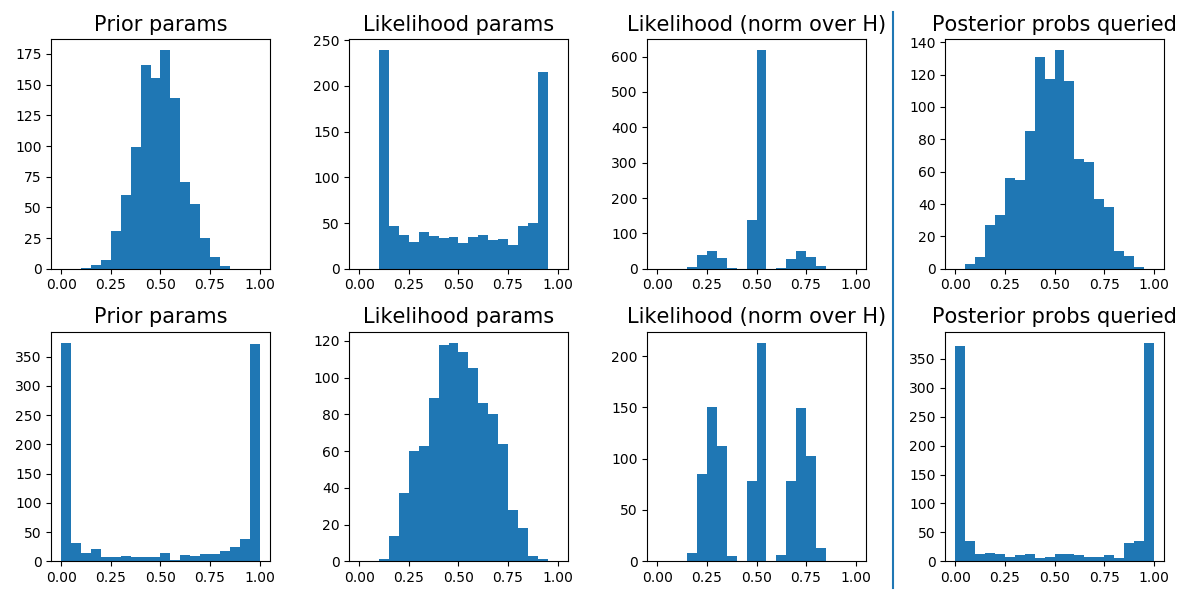
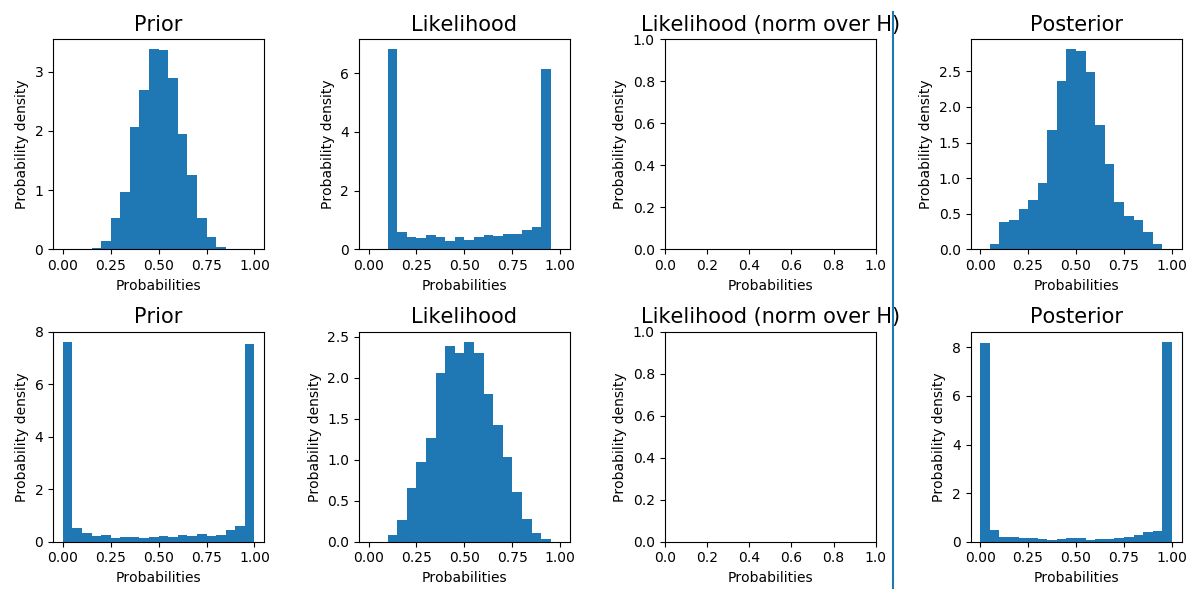
Including KDE

diff --git a/link2CP/demo.py b/link2CP/demo.py
@@ -2,7 +2,10 @@ import numpy as np
 import matplotlib
 import matplotlib.pyplot as plt
 import json
-N = 100
+
+from scipy.stats import gaussian_kde
+
+N = 2000
 Nbin = 20
 # prior prob of choosing urn 1
 priors = {}
@@ -12,7 +15,7 @@ lik_params = {}
 likls = {}
 # posterior probability of data coming from urn 1
 posts = {}
-conds = ['inf', 'uninf']
+conds = ['inf_lik', 'uninf_lik']
 
 
 def ret_likl(lik_param, data):
@@ -24,10 +27,27 @@ def ret_likl(lik_param, data):
 def log_odds_func(x):
     return(np.log(x / (1.0 - x)))
     
-def plotall(priors, lik_params, likls, posts, which, log_odds = False):
+def plotall(priors, lik_params, likls, posts, which, kde = False, log_odds = False):
+    
+    plt.tick_params(
+        axis='y',          # changes apply to the x-axis
+        which='both',      # both major and minor ticks are affected
+        bottom='off',      # ticks along the bottom edge are off
+        top='off',         # ticks along the top edge are off
+        labelbottom='off') # labels along the bottom edge are off    
+
+
     fig = plt.figure(figsize = (12,6))
     figtr = fig.transFigure.inverted()
     
+    sig_pr = {'inf_lik' : 0.7,
+              'uninf_lik' : 0.25}
+    sig_lik = {'inf_lik' : 0.7,
+              'uninf_lik' : 0.7}
+    sig_post = {'inf_lik' : 0.25,
+              'uninf_lik' : 0.25}
+    
+    Ndisc = 1000
     if log_odds:
         f = log_odds_func
         g_range = (-4, 4)
@@ -37,43 +57,72 @@ def plotall(priors, lik_params, likls, posts, which, log_odds = False):
         g_range = (0,1)
         Xlab = "Probabilities"
     
+    delx = (g_range[1] - g_range[0])/float(Ndisc)
     count = 1
+    
     for cond in conds:
         ax = plt.subplot(2,4,count)
-        ax.hist(f(priors[cond]), bins = Nbin, normed = True, range = g_range)
+        if kde:
+            density = gaussian_kde(f(priors[cond]))
+            density.covariance_factor = lambda : sig_pr[cond]
+            density._compute_covariance()        
+            x = np.linspace(g_range[0], g_range[1], Ndisc)
+            ax.plot(x, density(x) / sum(delx*density(x)))
+            ax.set_ylim([0,1.2])
+        else:
+            ax.hist(f(priors[cond]), bins = Nbin, normed = True, range = g_range)
         ax.set_xlabel(Xlab)
-        ax.set_ylabel("Probability")
+        ax.set_ylabel("Probability density")
         ax.set_title("Prior".format(cond), fontsize = 15)
+        #ax.set_yticks([])
         count += 1
         
         ax0tr = ax.transData
-        xy0 = figtr.transform(ax0tr.transform((0.3,10)))
+        xy0 = figtr.transform(ax0tr.transform((0.25,10)))
 
         ax = plt.subplot(2,4,count)
-        ax.hist(f(lik_params[cond]), bins = Nbin, normed = True, range = g_range)
+        if kde:
+            density = gaussian_kde(f(lik_params[cond]))
+            density.covariance_factor = lambda : sig_lik[cond]
+            density._compute_covariance()        
+            x = np.linspace(g_range[0], g_range[1], Ndisc)
+            ax.plot(x, density(x)/ sum(delx*density(x)))
+            ax.set_ylim([0,1.2])
+        else:
+            ax.hist(f(lik_params[cond]), bins = Nbin, normed = True, range = g_range)
         ax.set_xlabel(Xlab)
-        ax.set_ylabel("Probability")
+        ax.set_ylabel("Probability density")
         ax.set_title("Likelihood".format(cond), fontsize = 15)
+        #ax.set_yticks([])
         count += 1
         
                 
         if not log_odds:
             ax = plt.subplot(2,4,count)
-            ax.hist(f(likls[cond]), bins = Nbin, normed = True, range = g_range)
+            #ax.hist(f(likls[cond]), bins = Nbin, normed = True, range = g_range)
             ax.set_xlabel(Xlab)
-            ax.set_ylabel("Probability")
+            ax.set_ylabel("Probability density")
             ax.set_title("Likelihood (norm over H)".format(cond), fontsize = 15)
             count += 1
         
 
         ax = plt.subplot(2,4,count)
-        ax.hist(f(posts[cond]), bins = Nbin, normed = True, range = g_range)
+        if kde:
+            density = gaussian_kde(f(posts[cond]))
+            density.covariance_factor = lambda : sig_post[cond]
+            density._compute_covariance()        
+            x = np.linspace(g_range[0], g_range[1], Ndisc)
+            ax.plot(x, density(x)/ sum(delx*density(x)))
+            ax.set_ylim([0,1.2])
+        else:
+            ax.hist(f(posts[cond]), bins = Nbin, normed = True, range = g_range)
         ax.set_xlabel(Xlab)
-        ax.set_ylabel("Probability")
-        ax.set_title("Posterior probs".format(cond), fontsize = 15)
+        ax.set_ylabel("Probability density")
+        ax.set_title("Posterior".format(cond), fontsize = 15)
+        #ax.set_yticks([])
         count += 1
         ax0tr = ax.transData
-        xy1 = figtr.transform(ax0tr.transform((0.3,10)))
+        xy1 = figtr.transform(ax0tr.transform((0.25,10)))
         
         if log_odds: count +=1
         
@@ -97,20 +146,20 @@ which = str(3.1)
 Ndata = 1
 fac = 10.0
 mid = [0.5, 0.5, 0.4, 0.6]
-end = [0.1, 0.1, 0.2, 0.3, 0.9, 0.9, 0.8, 0.7]
+end = [0.1,0.2,0.2,0.3,0.7,0.8,0.8,0.9]
 
-priors['inf'] = np.random.choice(mid, N)
-priors['uninf'] = np.random.choice(end, N)
+priors['inf_lik'] = np.random.choice(mid, N)
+priors['uninf_lik'] = np.random.choice(end, N)
 
-lik_params['inf'] = np.random.choice(end, N)
-lik_params['uninf'] = np.random.choice(mid, N)
+lik_params['inf_lik'] = np.random.choice(end, N)
+lik_params['uninf_lik'] = np.random.choice(mid, N)
 
 
-#priors['inf'] = np.clip(np.random.beta(fac, fac, N), 0.001, 0.999)
-#priors['uninf'] = np.clip(np.random.beta(1.0/fac, 1.0/fac, N), 0.001, 0.999)
+#priors['inf_lik'] = np.clip(np.random.beta(fac, fac, N), 0.001, 0.999)
+#priors['uninf_lik'] = np.clip(np.random.beta(1.0/fac, 1.0/fac, N), 0.001, 0.999)
 
-#lik_params['inf'] = np.clip(np.random.beta(1.0/fac, 1.0/fac, N), 0.001, 0.999)
-#lik_params['uninf'] = np.clip(np.random.beta(fac, fac, N), 0.001, 0.999)
+#lik_params['inf_lik'] = np.clip(np.random.beta(1.0/fac, 1.0/fac, N), 0.001, 0.999)
+#lik_params['uninf_lik'] = np.clip(np.random.beta(fac, fac, N), 0.001, 0.999)
 
 data = []
 
@@ -136,130 +185,131 @@ for cond in conds:
     
     
     
-plotall(priors, lik_params, likls, posts, which, log_odds = True)
+plotall(priors, lik_params, likls, posts, which)#, log_odds = True)
 #Store log odds
-for name, t in zip(('priors', 'likls', 'posts'), (priors, lik_params, posts)):
-    for key in t:
-        t[key] = list(log_odds_func(t[key]))
-        
-    with open(name + '.txt', 'w') as fn:
-        json.dump(t,fn)
-        
-        
-##********************************************
-##3.2 : Vary only diagnosticity of likelihood + 
-##      certainty of hypotheses queried
-##********************************************
-
-#which = str(3.2)
-#Ndata = 8
-#Ndiff = 4
-
-##fac = 2
-
-#priors['inf'] = np.clip(np.random.beta(5.0, 5.0, N), 0.001, 0.999)
-##priors['uninf'] = np.clip(np.random.beta(5.0, 5.0, N), 0.001, 0.999)
-#priors['uninf'] = np.clip(np.random.beta(0.5, 0.5, N), 0.001, 0.999)
-
-#lik_params['inf'] = np.clip(np.random.beta(5.0, 5.0, N), 0.001, 0.999)
-#lik_params['uninf'] = np.clip(np.random.beta(5.0, 5.0, N), 0.001, 0.999)
-
-
-#data = []
-
-#for cond in conds:
-    #data = []
-    #for p, l in zip(priors[cond], lik_params[cond]):
-        #urn = np.random.binomial(1,p)
-        #if urn:
-            #lik = l
-        #else:
-            #lik = 1 - l
+if N == 100:
+    for name, t in zip(('priors', 'likls', 'posts'), (priors, lik_params, posts)):
+        for key in t:
+            t[key] = list(log_odds_func(t[key]))
             
-        #if cond == 'uninf':
-            #N1s = int(Ndata/2)
-        #elif cond == 'inf':
-            #N1s = int(Ndata/2) + (
-                #(lik > 0.5)*Ndiff - (lik < 0.5)*Ndiff)/2
-
-        #N0s = Ndata - N1s
-        
-
-        #manipulated_data = np.array([0]*N0s + [1]*N1s)
-        #np.random.shuffle(manipulated_data)
-        #data.append(manipulated_data)
-        
-        
-    #data = np.array(data)
+        with open(name + '.txt', 'w') as fn:
+            json.dump(t,fn)
             
-    #likls[cond] = np.array([ret_likl(lp, d) for lp, d in zip(lik_params[cond], data)])
-    
-    #likls_other = np.array([ret_likl(lp, d) for lp, d in zip(1 - lik_params[cond], data)])
-    #posts[cond] = likls[cond] * priors[cond] / (likls[cond] * priors[cond] + likls_other * (1 - priors[cond]))
-    
-    #likls[cond] = likls[cond] / (likls[cond] + likls_other)
-    
-    
-#plotall(priors, lik_params, likls, posts, which)
+        
+#********************************************
+#3.2 : Vary only diagnosticity of likelihood + 
+#      certainty of hypotheses queried
+#********************************************
 
-##********************************************
-##3.3 : Vary only parameters OR only parameters 
-##      + certainty of hypotheses queried
-##********************************************
+which = str(3.2)
+Ndata = 8
+Ndiff = 4
 
+#fac = 2
 
-#which = str(3.3)
-#Ndata = 10
-#odds = 3
+priors['inf_lik'] = np.clip(np.random.beta(5.0, 5.0, N), 0.001, 0.999)
+#priors['uninf_lik'] = np.clip(np.random.beta(5.0, 5.0, N), 0.001, 0.999)
+priors['uninf_lik'] = np.clip(np.random.beta(0.25, 0.25, N), 0.001, 0.999)
 
-#fac = 10
-
-#priors['inf'] = np.clip(np.random.beta(fac, fac, N), 0.001, 0.999)
-#priors['uninf'] = np.clip(np.random.beta(1.0/fac, 1.0/fac, N), 0.001, 0.999)
-##priors['uninf'] = np.clip(np.random.beta(fac, fac, N), 0.001, 0.999)
-
-#lik_params['inf'] = np.clip(np.random.beta(0.5, 0.5, N), 0.1, 0.9)
-#lik_params['uninf'] = np.clip(np.random.beta(5.0, 5.0, N), 0.1, 0.9)
+lik_params['inf_lik'] = np.clip(np.random.beta(5.0, 5.0, N), 0.001, 0.999)
+lik_params['uninf_lik'] = np.clip(np.random.beta(5.0, 5.0, N), 0.001, 0.999)
 
 
-#data = []
+data = []
 
-#for cond in conds:
-    #data = []
-    #for p, l in zip(priors[cond], lik_params[cond]):
-        #urn = np.random.binomial(1,p)
-        #if urn:
-            #lik = l
-        #else:
-            #lik = 1 - l
+for cond in conds:
+    data = []
+    for p, l in zip(priors[cond], lik_params[cond]):
+        urn = np.random.binomial(1,p)
+        if urn:
+            lik = l
+        else:
+            lik = 1 - l
             
-        #r = lik/(1.0*(1-lik))
-        #Ndiff = int(np.round(np.log(odds)/np.log(r)))
-        #N1s = int(Ndata/2) + (
-            #(lik > 0.5)*Ndiff - (lik < 0.5)*Ndiff)/2
+        if cond == 'uninf_lik':
+            N1s = int(Ndata/2)
+        elif cond == 'inf_lik':
+            N1s = int(Ndata/2) + (
+                (lik > 0.25)*Ndiff - (lik < 0.25)*Ndiff)/2
 
-        #N0s = Ndata - N1s
-        
-        ##if not Ndiff:
-            ##print(lik, np.log(r))
+        N0s = Ndata - N1s
         
 
-        #manipulated_data = np.array([0]*N0s + [1]*N1s)
-        #np.random.shuffle(manipulated_data)
-        #data.append(manipulated_data)
+        manipulated_data = np.array([0]*N0s + [1]*N1s)
+        np.random.shuffle(manipulated_data)
+        data.append(manipulated_data)
         
         
-    #data = np.array(data)
+    data = np.array(data)
             
-    #likls[cond] = np.array([ret_likl(lp, d) for lp, d in zip(lik_params[cond], data)])
+    likls[cond] = np.array([ret_likl(lp, d) for lp, d in zip(lik_params[cond], data)])
     
-    #likls_other = np.array([ret_likl(lp, d) for lp, d in zip(1 - lik_params[cond], data)])
-    #posts[cond] = likls[cond] * priors[cond] / (likls[cond] * priors[cond] + likls_other * (1 - priors[cond]))
+    likls_other = np.array([ret_likl(lp, d) for lp, d in zip(1 - lik_params[cond], data)])
+    posts[cond] = likls[cond] * priors[cond] / (likls[cond] * priors[cond] + likls_other * (1 - priors[cond]))
     
-    #likls[cond] = likls[cond] / (likls[cond] + likls_other)
+    likls[cond] = likls[cond] / (likls[cond] + likls_other)
     
     
-#plotall(priors, lik_params, likls, posts, which)
+plotall(priors, lik_params, likls, posts, which)
+
+#********************************************
+#3.3 : Vary only parameters OR only parameters 
+#      + certainty of hypotheses queried
+#********************************************
+
+
+which = str(3.3)
+Ndata = 10
+odds = 3
+
+fac = 10
+
+priors['inf_lik'] = np.clip(np.random.beta(fac, fac, N), 0.001, 0.999)
+priors['uninf_lik'] = np.clip(np.random.beta(1.0/fac, 1.0/fac, N), 0.001, 0.999)
+#priors['uninf_lik'] = np.clip(np.random.beta(fac, fac, N), 0.001, 0.999)
+
+lik_params['inf_lik'] = np.clip(np.random.beta(0.25, 0.25, N), 0.1, 0.9)
+lik_params['uninf_lik'] = np.clip(np.random.beta(5.0, 5.0, N), 0.1, 0.9)
+
+
+data = []
+
+for cond in conds:
+    data = []
+    for p, l in zip(priors[cond], lik_params[cond]):
+        urn = np.random.binomial(1,p)
+        if urn:
+            lik = l
+        else:
+            lik = 1 - l
+            
+        r = lik/(1.0*(1-lik))
+        Ndiff = int(np.round(np.log(odds)/np.log(r)))
+        N1s = int(Ndata/2) + (
+            (lik > 0.25)*Ndiff - (lik < 0.25)*Ndiff)/2
+
+        N0s = Ndata - N1s
+        
+        #if not Ndiff:
+            #print(lik, np.log(r))
+        
+
+        manipulated_data = np.array([0]*N0s + [1]*N1s)
+        np.random.shuffle(manipulated_data)
+        data.append(manipulated_data)
+        
+        
+    data = np.array(data)
+            
+    likls[cond] = np.array([ret_likl(lp, d) for lp, d in zip(lik_params[cond], data)])
+    
+    likls_other = np.array([ret_likl(lp, d) for lp, d in zip(1 - lik_params[cond], data)])
+    posts[cond] = likls[cond] * priors[cond] / (likls[cond] * priors[cond] + likls_other * (1 - priors[cond]))
+    
+    likls[cond] = likls[cond] / (likls[cond] + likls_other)
+    
+    
+plotall(priors, lik_params, likls, posts, which)
 
 
 
